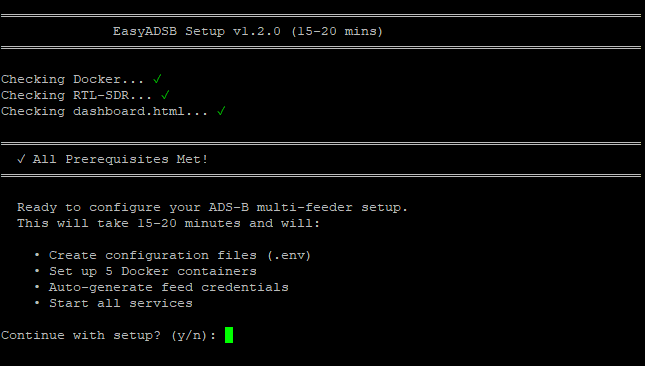
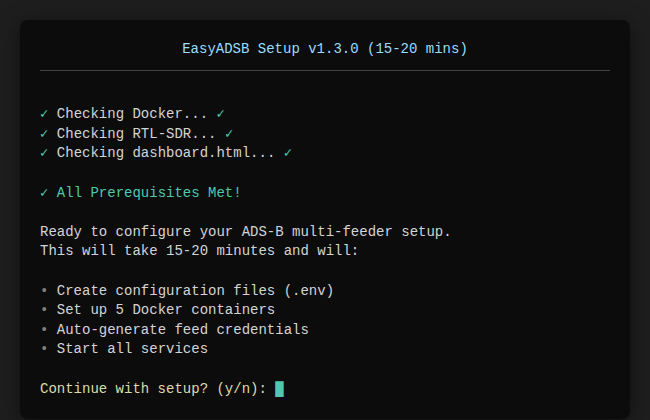
fix: Add proper v1.3.0 screenshots and update README
Screenshots:
- Add dashboard-hero.png (new hero image)
- Add dashboard-map-styles.png (6 map style collage)
- Add dashboard-feed-collapsed.png (collapsible sections)
- Add dashboard-leaderboard.png
- Add dashboard-spotter-stats.png
- Add dashboard-achievements.png
- Add dashboard-type-gallery.png
- Add dashboard-all-collapsed.png
- Update dashboard-dark.png and dashboard-light.png (full page with stealth mode)
- Update flight-logger.png
- Update setup-first-run.png and setup-menu.png to show v1.3.0
- Remove dashboard-full.png (replaced by hero)
- Remove recent-aircraft.png (feature removed)
- Remove setup-progress.png (unused)

README updates:
- Update hero image reference
- Add Interactive Map section with map styles screenshot
- Add Feed Status v1.3.0 with collapsible feature
- Add Achievements & Stats section with 4 screenshots
- Add Collapsible Sections showcase
- Add Dark/Light mode full page screenshots

Changed region(s): [[0.0, 0.0, 1.0, 1.0], [0.062, 0.6612, 0.5271, 0.8415]]

diff --git a/README.md b/README.md
@@ -4,7 +4,7 @@
 
 One command. 15-20 minutes. Six flight tracking networks. Zero headaches.
 
-![EasyADSB Dashboard](screenshots/dashboard-full.png)
+![EasyADSB Dashboard](screenshots/dashboard-hero.png)
 
 ---
 
@@ -172,20 +172,28 @@ hostname -I
 
 ## 🎛 Dashboard Features
 
-### Live Aircraft Tracking
-- **Recent Aircraft List** - Last 10 detected aircraft with flight number, altitude, distance
-- **Auto-Refresh** - Updates every 5 seconds
-- **Interactive Map** - Embedded tar1090 map showing all aircraft
+### Interactive Map (v1.3.0)
+- **Custom Leaflet Map** - Native SVG aircraft icons with altitude coloring
+- **6 Map Styles** - Dark, Light, Voyager, Satellite, Terrain, OpenStreetMap
+- **Real-time Updates** - Aircraft positions, headings, and trails
+- **Distance Rings** - 50/100/150/200/250nm range indicators
+- **Antenna Coverage** - Overlay showing your actual reception range
+
+![Map Styles](screenshots/dashboard-map-styles.png)
 
 ### Quick Stats
 - **Aircraft Count** - Total aircraft currently visible
 - **Messages/Second** - Data throughput from your receiver
 - **Max Range** - Furthest aircraft detected
 
-### Feed Status
+### Feed Status (v1.3.0)
 - **Broadcasting Status** - Live indicators for all 6 services
+- **Collapsible Cards** - Click to expand/collapse each section
 - **Direct Links** - One-click access to your stats on each platform
 - **Station IDs** - All your UUIDs and keys with copy buttons
+
+![Feed Status Collapsed](screenshots/dashboard-feed-collapsed.png)
+*Sections collapse for a cleaner view*
 
 ![Station IDs](screenshots/station-ids.png)
 
@@ -194,8 +202,17 @@ hostname -I
 - **Persistent** - Remembers your preference
 - **Optimized Colors** - Perfect contrast in both modes
 
+![Dashboard Dark Mode](screenshots/dashboard-dark.png)
+*Dark mode (default) - easy on the eyes*
+
 ![Dashboard Light Mode](screenshots/dashboard-light.png)
-*Light mode is also available for daytime viewing*
+*Light mode - perfect for daytime viewing*
+
+### Collapsible Sections (v1.3.0)
+Every section can be collapsed for a cleaner, more compact view. Your preferences are saved automatically.
+
+![All Sections Collapsed](screenshots/dashboard-all-collapsed.png)
+*All sections collapsed - perfect for quick status checks*
 
 ---
 
@@ -263,6 +280,32 @@ GET  /api/trace/<icao> - Get flight path
 POST /api/pause       - Pause logging
 POST /api/resume      - Resume logging
 ```
+
+---
+
+## 🏆 Achievements & Stats (v1.3.0)
+
+Track your spotting progress with gamified achievements and detailed statistics!
+
+### Leaderboard
+Top aircraft by sightings with time-range filters (24h, 7d, 30d, all-time).
+
+![Leaderboard](screenshots/dashboard-leaderboard.png)
+
+### Spotter Stats
+Personal records including busiest day, max altitude, top speed, and signal strength.
+
+![Spotter Stats](screenshots/dashboard-spotter-stats.png)
+
+### Achievements
+74+ achievements across 8 categories - altitude milestones, speed records, aircraft types, spotting streaks, and more!
+
+![Achievements](screenshots/dashboard-achievements.png)
+
+### Aircraft Type Gallery
+Categorized display of all logged aircraft types with images and counts.
+
+![Type Gallery](screenshots/dashboard-type-gallery.png)
 
 ---
 
